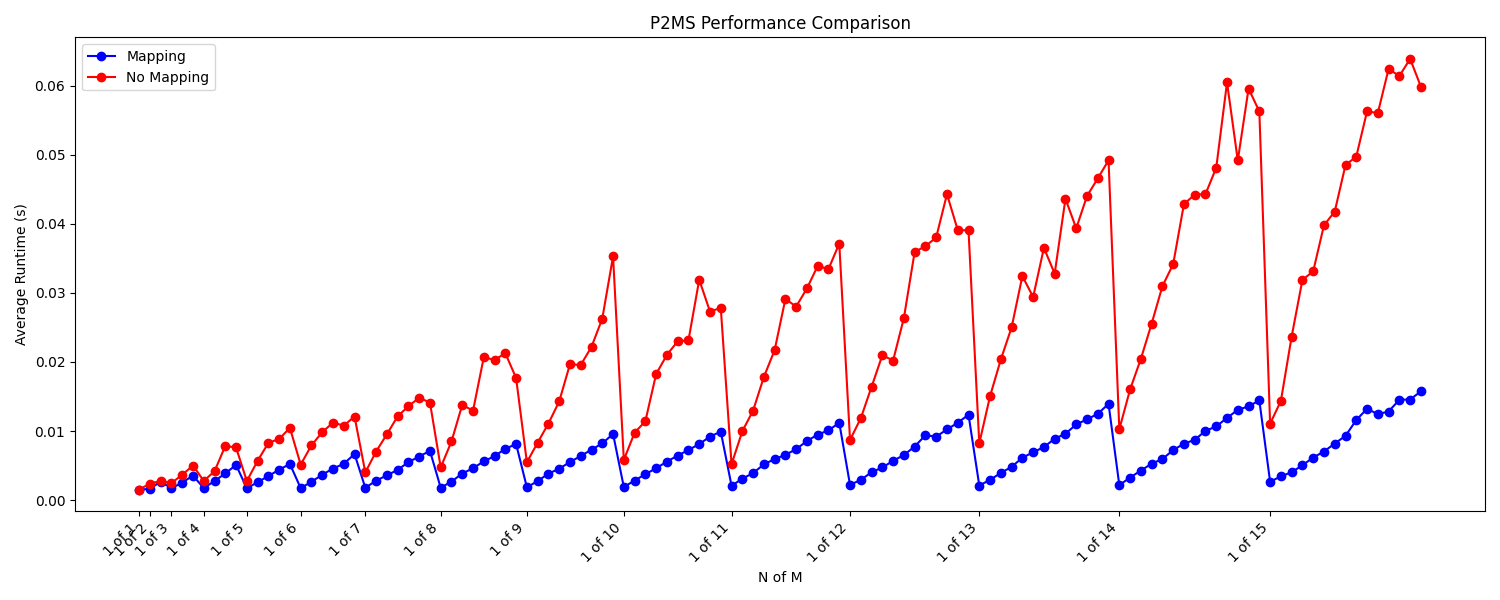
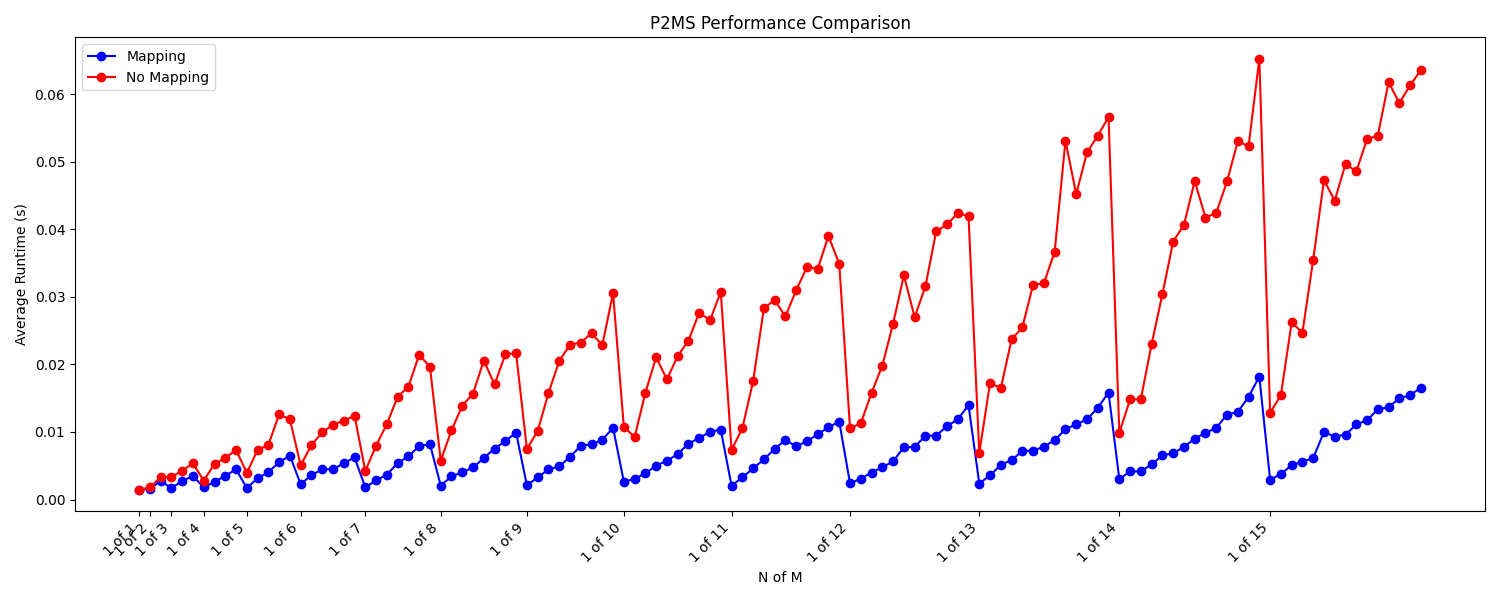
added row for aggregate averages

diff --git a/measure_p2ms_performance.py b/measure_p2ms_performance.py
@@ -6,7 +6,6 @@ import matplotlib.pyplot as plt
 # Check for command-line argument for number of runs, default to 1000 if not provided
 num_runs = int(sys.argv[2]) if len(sys.argv) > 2 else 1000
 
-# Measure performance function
 def measure_performance(script_file, num_runs):
     exec_cmd = f'./main.py {script_file} 1 {num_runs}'
     result = subprocess.run(exec_cmd, shell=True, capture_output=True, text=True)
@@ -20,14 +19,11 @@ def plot_performance(labels, mapping_times, no_mapping_times):
     plt.plot(indices, mapping_times, label='Mapping', marker='o', linestyle='-', color='blue')
     plt.plot(indices, no_mapping_times, label='No Mapping', marker='o', linestyle='-', color='red')
 
-    # Dynamically adjust which labels to display: only min N for each M
-    unique_ms = set(label.split(" of ")[1] for label in labels)  # Extract unique M values
+    unique_ms = set(label.split(" of ")[1] for label in labels)
     display_labels = [f"1 of {m}" for m in sorted(unique_ms, key=int)]
                 
-    # Create a list of indices where labels should be displayed
     display_indices = [labels.index(label) for label in display_labels if label in labels]
     
-    # Set x-ticks and labels
     plt.xticks(display_indices, display_labels, rotation=45, ha="right")
 
     plt.xlabel('N of M')
@@ -39,39 +35,48 @@ def plot_performance(labels, mapping_times, no_mapping_times):
     plt.savefig("p2ms_performance_comparison.png")
     plt.show()
 
-# Main function to iterate over combinations, generate scripts, measure performance, and compile results
 def main():
     results = [("N of M", "Avg Runtime Mapping (s)", "Avg Runtime No Mapping (s)", "Speed Up Factor")]
-    mapping_times, no_mapping_times, labels = [], [], []
+    total_mapping_time, total_no_mapping_time, total_factors = 0, 0, 0
     
+    num_combinations = 0  # Track the number of N, M combinations
+    num_scripts = int(sys.argv[1]) if len(sys.argv) > 1 else 10  # Default to 10 scripts if not specified
+
     for m in range(1, 16):  # M can be 15 at max
         for n in range(1, m + 1):  # N has to be less than or equal to M
             total_time_mapping, total_time_no_mapping = 0, 0
-            num_scripts = int(sys.argv[1]) if len(sys.argv) > 1 else 5
-            for _ in range(num_scripts):  # Generate and execute 10 scripts per combination
+            for _ in range(num_scripts):  # Generate and execute scripts per combination
                 generate_script_cmd = f'./generate_p2ms_script.py {n} {m}'
-                subprocess.run(generate_script_cmd, shell=True)  # Generate script
+                subprocess.run(generate_script_cmd, shell=True)
                 
                 total_time_mapping += measure_performance("p2ms_script_mapping", num_runs)
                 total_time_no_mapping += measure_performance("p2ms_script", num_runs)
             
-            # Calculate average times over the num_scripts scripts
             avg_time_mapping = total_time_mapping / num_scripts
             avg_time_no_mapping = total_time_no_mapping / num_scripts
             speed_up_factor = avg_time_no_mapping / avg_time_mapping if avg_time_mapping else 0
             
             results.append((f"{n} of {m}", avg_time_mapping, avg_time_no_mapping, speed_up_factor))
-            mapping_times.append(avg_time_mapping)
-            no_mapping_times.append(avg_time_no_mapping)
-            labels.append(f"{n} of {m}")
-    
+            total_mapping_time += avg_time_mapping
+            total_no_mapping_time += avg_time_no_mapping
+            total_factors += speed_up_factor
+            num_combinations += 1
+
+    # Calculate overall averages
+    overall_avg_mapping = total_mapping_time / num_combinations
+    overall_avg_no_mapping = total_no_mapping_time / num_combinations
+    overall_speed_up_factor = total_factors / num_combinations
+
+    # Append overall averages to the results
+    results.append(("Overall Avg", overall_avg_mapping, overall_avg_no_mapping, overall_speed_up_factor))
+
     # Write results to CSV
     with open("p2ms_performance.csv", "w", newline='') as file:
         writer = csv.writer(file)
         writer.writerows(results)
 
     # Generate and show the plot
-    plot_performance(labels, mapping_times, no_mapping_times)
+    plot_performance([r[0] for r in results[1:-1]], [r[1] for r in results[1:-1]], [r[2] for r in results[1:-1]])
 
 if __name__ == "__main__":
     main()
